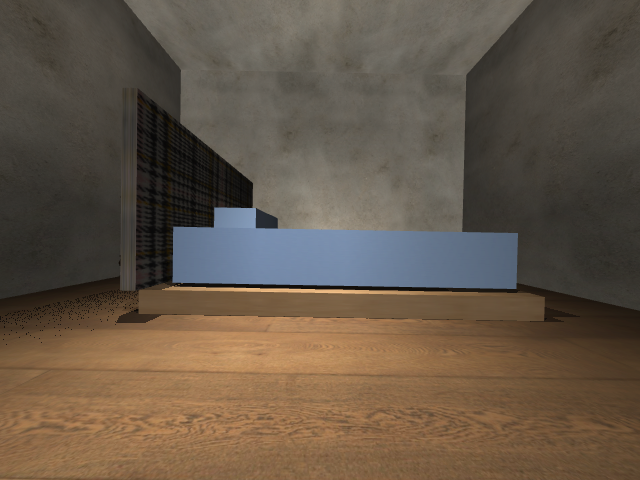
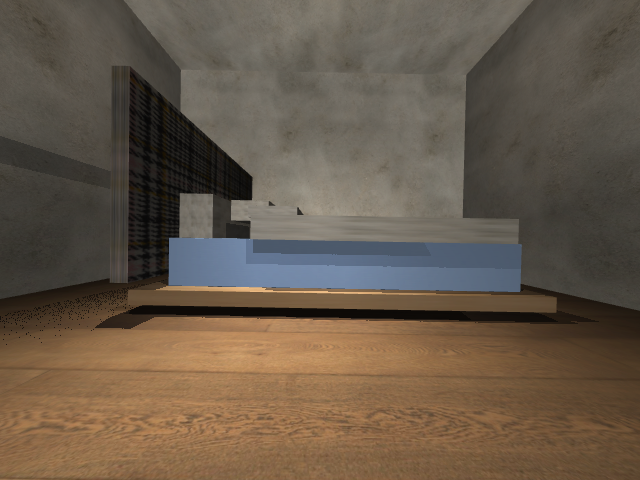
Stack the bedroom bed into a platform, duvet, and pillows.
The low frozen kit_cam still looks at the near side. The gothic mesh stays unused. The bed remains authored boxes, documented as Prefer FAIL.

Changed region(s): [[0.1562, 0.125, 0.9062, 0.6875], [0.3438, 0.3125, 0.4062, 0.375], [0.3125, 0.2812, 0.3438, 0.3125]]

diff --git a/docs/KIT_CAM_ROOM.md b/docs/KIT_CAM_ROOM.md
@@ -11,7 +11,7 @@ Furniture is CC0 textured meshes under `mujoco/assets/rooms/`. Licenses, authors
 | `mujoco/room_kitchen.xml` | `kitchen`, `table`, `chair` | White slab base run and oak uppers on the back wall, sink and faucet on the sightline, freestanding stove at the image-left end. Island and two stools sit image-right so they do not block the run. Faces +X. `kit_cam` stays at standing height about 0.38 m and looks level, so the countertop surface stays above the lens. Cabinets and the island are CC0 textures on boxes. The stove is not a stacked black double oven. The basin is a CC0 bathroom bowl. Closed white room, wood floor. No flat yellow backsplash |
 | `mujoco/room_bathroom.xml` | `bathroom`, `sink`, `toilet`, `bathtub` | Vanity, basin, and mirror against the back-left wall, toilet beside them, stylized tub in the back-right corner. Closed tile room, marble floor |
 | `mujoco/room_living.xml` | `living`, `tv`, `coffee` | Larger leather sofa (`living`) against the back wall, cushions toward +X; coffee table in front; CRT beside the sofa at the same depth, screen toward +X. Closed beige room |
-| `mujoco/room_bedroom.xml` | `bedroom`, `nightstand` | Platform bed against the back wall, long side toward +X. Flat boucle headboard toward image-left, linen mattress and pillow, no posts. Nightstand and lamp beside the head. Poly Haven has no contemporary bed mesh, so the bed is CC0 textures on boxes. Closed plaster room |
+| `mujoco/room_bedroom.xml` | `bedroom`, `nightstand` | Platform bed against the back wall, long side toward +X. Recessed oak plinth, linen mattress edge, white duvet with a fold, two shams and a front pillow, flat boucle headboard toward image-left, no posts. Nightstand and lamp beside the head. Poly Haven has no contemporary bed mesh, so the bed is CC0 textures on boxes. Closed plaster room |
 | `mujoco/room_entrance.xml` | `entrance`, `mat`, `shoes`, `console` | Static panel in thicker wood trim against the back wall. Hessian mat runs up to the leaf. Boots sit image-right of the mat. Console is image-left, clear of the boots. No hinge, no lever, no latch |
 
 Furniture sits in front of `kit_cam` look (+X), so a quiet stand sees the named room body.

diff --git a/docs/ROOM_ASSETS.md b/docs/ROOM_ASSETS.md
@@ -86,7 +86,7 @@ The ribbed wooden cabinet, the drawer cabinet, the dining table, the dining chai
 
 `kit_cam` stands at about 0.38 m and looks level along +X. That pose is frozen. Countertops at 0.90 m stay above the lens, so the still cannot match a standing-eye photo of the cooktop. The island and stools sit image-right of the lens axis so the cabinet fronts, sink, and stove are in frame. That low-camera gap is a Prefer FAIL. Moving `kit_cam` would be required to see the counter surface the way the reference photo does.
 
-Poly Haven has no contemporary bed. The other bed meshes are Gothic Bed 01, a rusty hospital frame, and a carved daybed. The bedroom scene does not place them. The bed in frame is an authored platform: oak veneer base, rough-linen mattress and pillow, and a flat wool-boucle headboard with no posts. That is a CC0-texture stand-in, not a scanned modern bed. That photoreal gap is a Prefer FAIL. The nightstand is still Classic Nightstand 01.
+Poly Haven has no contemporary bed. The other bed meshes are Gothic Bed 01, a rusty hospital frame, and a carved daybed. The bedroom scene does not place them. The bed in frame is still authored boxes, not a scan: a recessed oak plinth, a linen mattress edge, a white plaster duvet with a folded cuff, two shams and a front pillow, and a flat wool-boucle headboard with no posts. That photoreal gap is a Prefer FAIL. `kit_cam` stays near 0.38 m and looks level, so the still shows the near side of the stack more than the top of the duvet. The nightstand is still Classic Nightstand 01.
 
 Poly Haven has no bathtub. The tub is from Isa Lousberg's **Tiny Treats — Bubbly Bathroom** set, licensed **CC0**:
 
